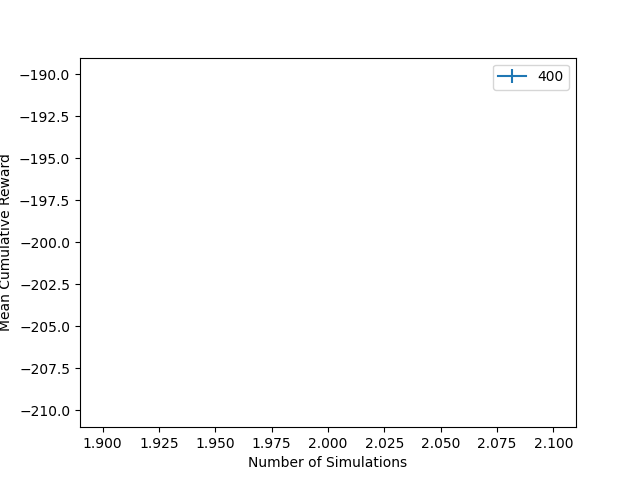
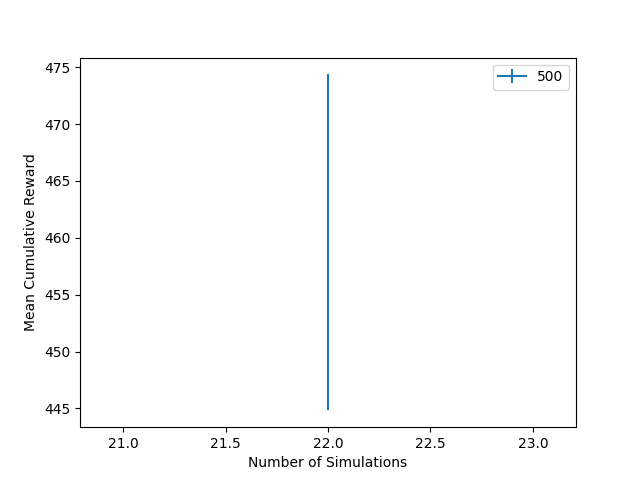
Bug fix in MCTS

diff --git a/src/MCTS.py b/src/MCTS.py
@@ -9,7 +9,7 @@ class Node:
         self.action = action
         self.unexplored = list(action_space)
         self.children = []
-        self.children_N = [0, 0, 0, 0]
+        self.children_N = [0] * len(action_space)
         self.Q = 0
         self.N = 0
         self.isTerminal = isTerminal
@@ -35,6 +35,7 @@ class mcts_agent:
         self.copy_env = copy.deepcopy(env)
         root_state =  self.copy_env.get_state()
         root = Node(None, None, False, 0, self.action_space)
+        self.__expand2(root)
         root.isExplored = True
         
         for i in range(self.simulations):
@@ -60,13 +61,25 @@ class mcts_agent:
             
             self.depth += 1
             
-            if len(node.unexplored) > 0:
-                return self.__expand(node)
+            if len(node.children) == 0:
+                self.__expand2(node)
+                return node
             else:
-                node = self.__bestChild(node, self.temperature)
-                next_state, _, terminal, _ = self.copy_env.step(node.action)
+                if len(node.unexplored) > 0:
+                    unexpanded = node.unexplored[random.randint(0, len(node.unexplored) - 1)]
+                    new_state, reward, done, info = self.copy_env.step(unexpanded)
+                    node.children[unexpanded].isTerminal = done
+                    node.children[unexpanded].reward = reward
+                    node.unexplored.remove(unexpanded)
+                    node = node.children[unexpanded]
+                else:  
+                    node = self.__bestChild(node, self.temperature)
+                    next_state, _, terminal, _ = self.copy_env.step(node.action)
         return node
 
+    def __expand2(self, node):
+        node.children = [Node(node, action, False, 0, self.action_space) for action in node.unexplored]
+    
     def __expand(self, node):
         # Find an unexplored actions and choose randomly amongst them
         # unexpanded = node.unexplored[random.randint(0, len(node.unexplored) - 1)]
@@ -114,10 +127,7 @@ class mcts_agent:
         i = 0
         while not node == None:
             reward = self.discount_factor * reward + node.reward
-            if node.isExplored:
-                node.N += 1
-            else:
-                node.isExplored = True
+            node.N += 1
             if node.parent != None:
                 node.parent.children_N[node.action] = node.parent.children_N[node.action] + 1
             node.Q += reward

diff --git a/scripts/ExperimentTest.py b/scripts/ExperimentTest.py
@@ -4,18 +4,18 @@ from src.Experiment import Experiment
 import gym
 import copy
 
-TEMPERATURES_1 = [400]
+TEMPERATURES_1 = [500]
 TEMPERATURES_2 = [1]
-SIMULATIONS = [2]
-TRIAL = 5
+SIMULATIONS = [22]
+TRIAL = 20
 
-env1 = StatelessGym.make("MountainCar-v0")
+env1 = StatelessGym.make("CartPole-v1")
 env2 = StatelessGym.make("FrozenLake-v1", desc=None, map_name="4x4", is_slippery=False)
 
 agent = MCTS.mcts_agent()
 
 experiment1 = Experiment(env1, agent, temperatures=TEMPERATURES_1, simulations=SIMULATIONS, trial=TRIAL, experiment_name="Cartpole_Base_MCTS_test")
-experiment2 = Experiment(env2, agent, temperatures=TEMPERATURES_2, simulations=SIMULATIONS, trial=TRIAL, experiment_name="FrozenLake_Base_MCTS")
+#experiment2 = Experiment(env2, agent, temperatures=TEMPERATURES_2, simulations=SIMULATIONS, trial=TRIAL, experiment_name="FrozenLake_Base_MCTS")
 
 experiment1.run(save=True)
 experiment1.show_results()

diff --git a/scripts/MCTSTest.py b/scripts/MCTSTest.py
@@ -3,11 +3,11 @@ import src.MCTS as MCTS
 import matplotlib.pyplot as plt
 import numpy as np
 
-total = 10
+total = 1
 
-for temp in [1]:
+for temp in [500]:
     results = []
-    iterations = [1, 2, 4, 8, 16, 32, 64]
+    iterations = [20]
     intervals = []
     for iter in iterations:
         rewards = []
